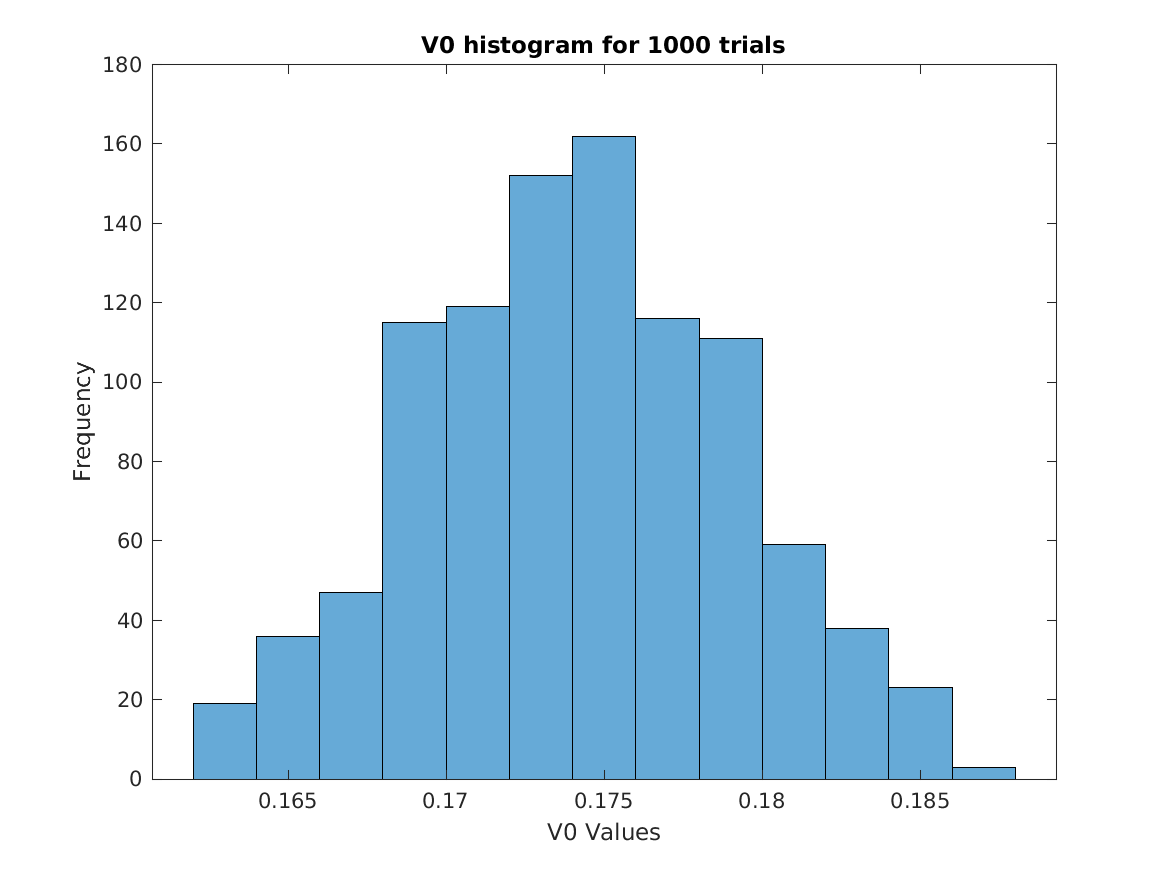
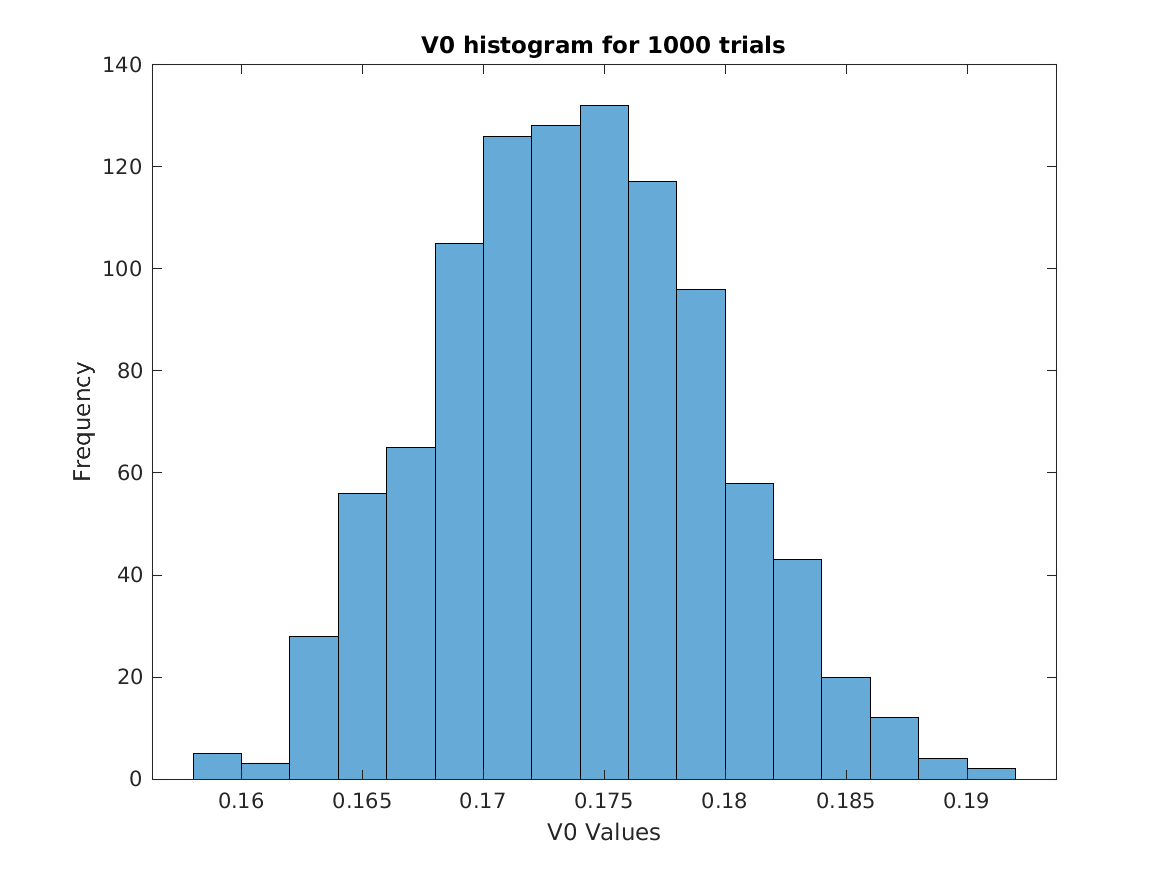
fix random number gen

diff --git a/lab22.m b/lab22.m
@@ -36,7 +36,8 @@ function [resistor] = make_random_resistor(r)
   else
     sign = 1;
   end
-  resistor = r + sign * (tolerance * s * r);
+  t = rand;
+  resistor = r + sign * (tolerance * t * r);
 end
 
 
